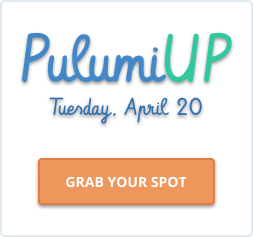
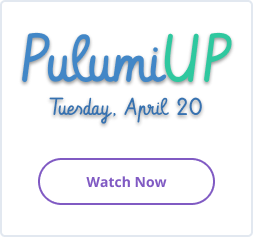
Add PulumiUP recording

Changed region(s): [[0.1383, 0.6498, 0.8577, 0.8861]]

diff --git a/themes/default/layouts/page/pulumi-up.html b/themes/default/layouts/page/pulumi-up.html
@@ -15,7 +15,6 @@
                         playing-text="PAUSE THE VIBE"
                         url="https://www.pulumi.com/uploads/pulumiup-background-loop.mp4"
                     ></pulumi-audio>
-                    <a href="https://www.bigmarker.com/pulumi/PulumiUP" target="_blank" rel="noreferrer noopener" class="btn btn-orange orange-neon inline-block ml-8">Watch Now</a>
                 </div>
             </div>
         </div>
@@ -23,19 +22,17 @@
             <section id="main-event">
                 <div class="w-full">
                     <div class="mb-24">
-                        <pulumi-datetime class="section-title-blue text-center mt-16 md:mt-4" date="2021-04-20T09:00:00-07:00"></pulumi-datetime>
-                        <p class="max-w-3xl mx-auto text-lg text-white">
-                            PulumiUP is a two-hour virtual event for anyone who is interested in cloud engineering,
-                            cloud infrastructure, software development, modern applications, or Pulumi.
-                            Whether you’re a seasoned cloud engineer or just curious to learn what’s all
-                            the fuss about cloud engineering, PulumiUP will teach you something new about
-                            the future of building on the cloud.
-                        </p>
-                        <div class="text-center">
-                            <a href="https://www.bigmarker.com/pulumi/PulumiUP" target="_blank" rel="noreferrer noopener" class="btn btn-lg btn-orange orange-neon">Watch Now</a>
+                        <h2 class="section-title-blue text-center mt-16 md:mt-4">Watch The Annoucements</h2>
+                        <div class="rounded shadow-md" style="position: relative; padding-bottom: 56.25%; height: 0; overflow: hidden;">
+                            <iframe
+                                src="//www.youtube.com/embed/Zko70KVGcgo?rel=0"
+                                style="position: absolute; top: 0; left: 0; width: 100%; height: 100%; border:0;"
+                                allowfullscreen=""
+                                title="PulumiUP: Announcing Pulumi 3.0"
+                            ></iframe>
                         </div>
                     </div>
-                    <div data-title="The Plan" class="neon-callout-box-green p-16 pt-4">
+                    <div data-title="Agenda" class="neon-callout-box-green p-16 pt-4">
                         <div class="">
                             <div class="mt-16 max-w-3xl mx-auto">
                                 {{ range $index, $section := .Params.event_sections }}
@@ -65,29 +62,12 @@
                                         </div>
                                     </div>
                                 {{ end }}
-                                <div class="my-12 text-center">
-                                    <a href="https://www.bigmarker.com/pulumi/PulumiUP" target="_blank" rel="noreferrer noopener" class="btn btn-lg btn-orange">Watch Now</a>
-                                </div>
                             </div>
                         </div>
                     </div>
                 </div>
             </section>
-            <section id="after-party" class="px-4 mt-16">
-                <div data-title="The After Party" class="neon-callout-box-green p-16 text-center">
-                    <div class="max-w-3xl mx-auto mt-16 md:mt-0">
-                        <a class="section-title-orange-link" target="_blank" href="https://clublink.to/event/P9OW41kM">PulumiUP Virtual Afterparty w/ AWS Startups</a>
-                        <pulumi-datetime class="plot-cast-title text-base mt-4" date="2021-04-20T16:15:00-07:00"></pulumi-datetime>
-                        <p class="text-white">
-                            Join us as we wind down the PulumiUP and awesome talks about all things Infrastructure-as-Code
-                            with our chill afterparty with speakers, attendees & the AWS Startups team 😎
-                        </p>
-                        <div class="my-8">
-                            <a href="https://clublink.to/event/P9OW41kM" target="_blank" class="btn btn-lg btn-orange-translucent">Join on Clubhouse</a>
-                        </div>
-                    </div>
-                </div>
-            </section>
+
             <section id="sessions" class="mt-16">
                 <div class="flex flex-col lg:flex-row">
                     <div class="w-full lg:w-1/2 p-4">
@@ -126,5 +106,35 @@
             </section>
         </div>
     </div>
+
+    <section id="thank-you" class="container mx-auto my-16 bg-white">
+        <h3 class="text-center">Supported by our friends at</h3>
+        <ul class="list-none lg:flex">
+            <li class="w-1/3 lg:w-1/6 p-6 mx-auto">
+                <img class="w-full lg:h-16" src="/logos/tech/aws.svg" alt="Amazon Web Services" />
+            </li>
+
+            <li class="w-1/3 lg:w-1/6 p-6 mx-auto">
+                <img class="w-full lg:h-16" src="/logos/customers/fenergo-wordmark.svg" alt="Fenergo" />
+            </li>
+
+            <li class="w-1/3 lg:w-1/6 p-6 mx-auto">
+                <img class="w-full lg:h-16" src="/logos/tech/github.svg" alt="Github" />
+            </li>
+
+            <li class="w-1/3 lg:w-1/6 p-6 mx-auto">
+                <img class="w-full lg:h-16" src="/logos/tech/honeycomb-logo.svg" alt="Honeycomb" />
+            </li>
+
+            <li class="w-1/3 lg:w-1/6 p-6 mx-auto">
+                <img class="w-full lg:h-16" src="/logos/tech/jfrog.svg" alt="JFrog" />
+            </li>
+
+            <li class="w-1/3 lg:w-1/6 p-6 mx-auto">
+                <img class="w-full lg:h-16" src="/logos/customers/snowflake-logo.svg" alt="Snowflake" />
+            </li>
+        </ul>
+    </section>
+
     <link rel="stylesheet" href="//fonts.googleapis.com/css?family=Vibur" />
 {{ end }}

diff --git a/themes/default/content/pulumi-up/_index.md b/themes/default/content/pulumi-up/_index.md
@@ -23,7 +23,7 @@ event_sections:
 
     - title: The Tools
       act: II
-      speakers: [ "luke-hoban", "sophia-parafina", "komal-ali" ]
+      speakers: [ "luke-hoban", "lee-zen", "komal-ali" ]
       description: |
         During part two, Joe Duffy and Pulumi CTO Luke Hoban will walk us through new announcements about Pulumi's
         Cloud Engineering Platform and present demos with help from assorted Pulumi team members. You will
@@ -38,18 +38,6 @@ event_sections:
         helped them be successful in this new era of software development.
 
 workshops:
-    - title: Introduction To Pulumi
-      url: /resources/introduction-to-pulumi/?date=2021/04/20
-      datetime: 2021-04-20T14:00:00-07:00
-      description: |
-        In this workshop, you will learn the fundamentals of Infrastructure as Code through guided exercises using Pulumi's Cloud Engineering platform.
-
-    - title: Getting Started with Automation API
-      url: /resources/getting-started-with-automation-api
-      datetime: 2021-04-21T09:00:00-07:00
-      description: |
-        Pulumi’s Automation API opens new horizons for infrastructure provisioning. In this workshop, you’ll examine the powerful new capabilities of Pulumi’s latest feature by building a Python & Flask web application that lets developers deploy applications at the click of a button.
-
     - title: Getting Started with Azure Native
       url: /resources/getting-started-with-azure-native
       datetime: 2021-04-27T09:00:00-07:00
